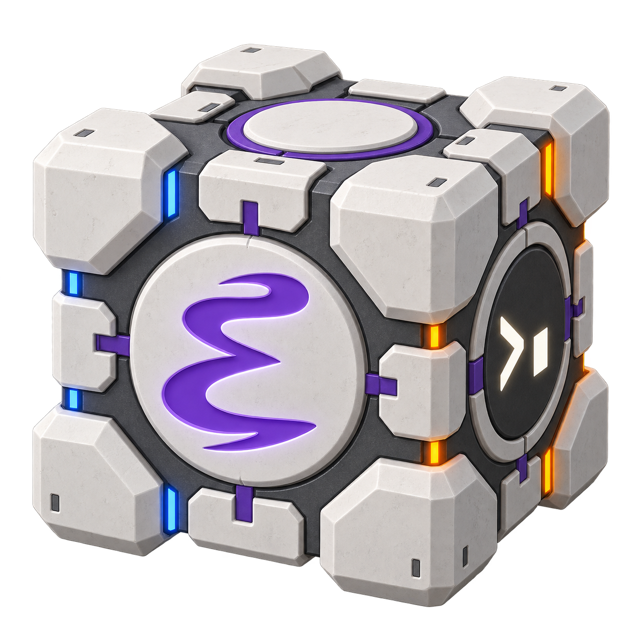
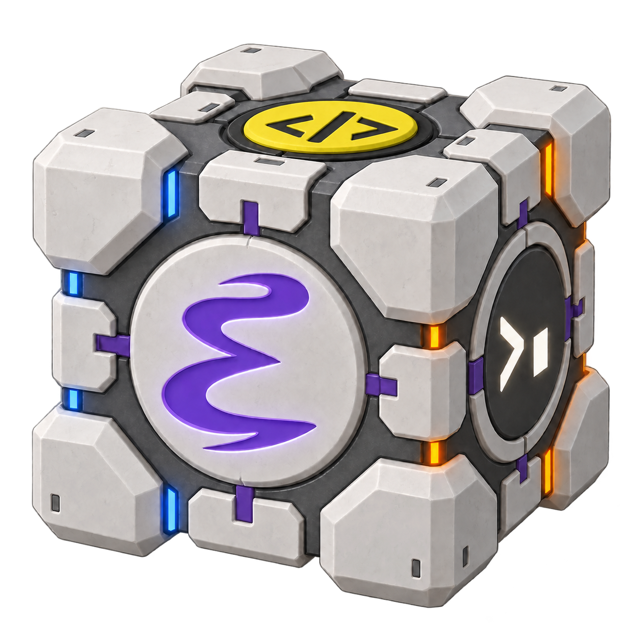
Update Companion Buffer artwork with yellow web badge

diff --git a/README.md b/README.md
@@ -1,7 +1,7 @@
 # Portal: native views in Emacs
 
 <p align="center">
-  <img src="assets/portal.png" alt="Portal Companion Buffer: a cube with Emacs and terminal emblems" width="320" height="320">
+  <img src="assets/portal.png" alt="Portal Companion Buffer: a cube with Emacs, terminal and web emblems" width="320" height="320">
 </p>
 
 Portal puts native WebKit pages and Ghostty terminals inside macOS Emacs panes.

diff --git a/tasks/07-update-companion-buffer-logo-with-web-ba.md b/tasks/07-update-companion-buffer-logo-with-web-ba.md
@@ -1,5 +1,5 @@
 ---
-status: todo
+status: done
 ---
 # Update Companion Buffer logo with web badge
 
